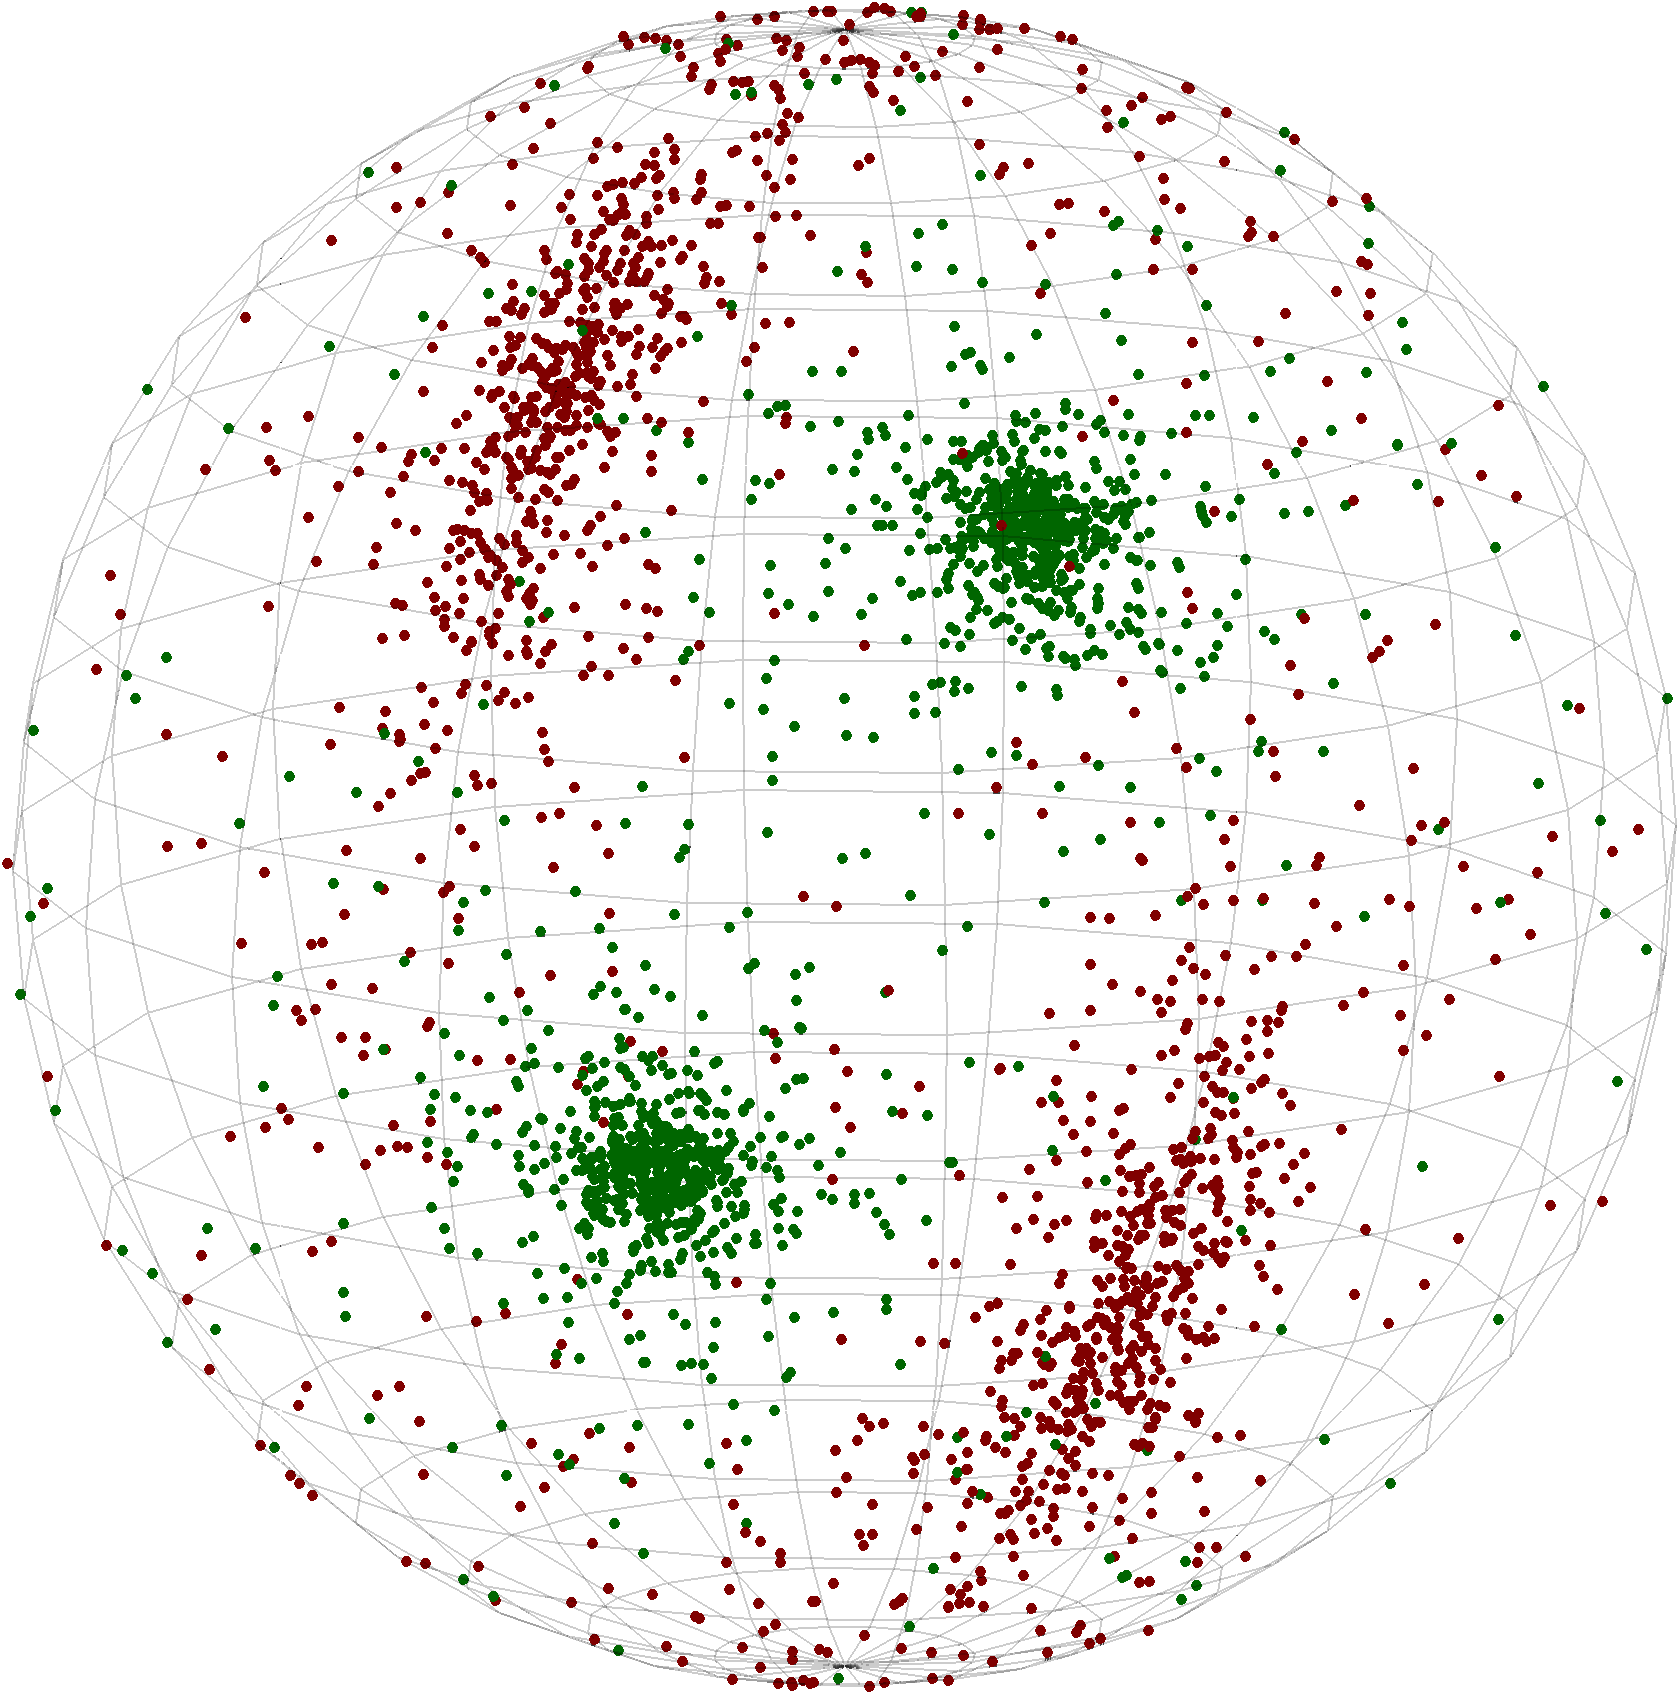
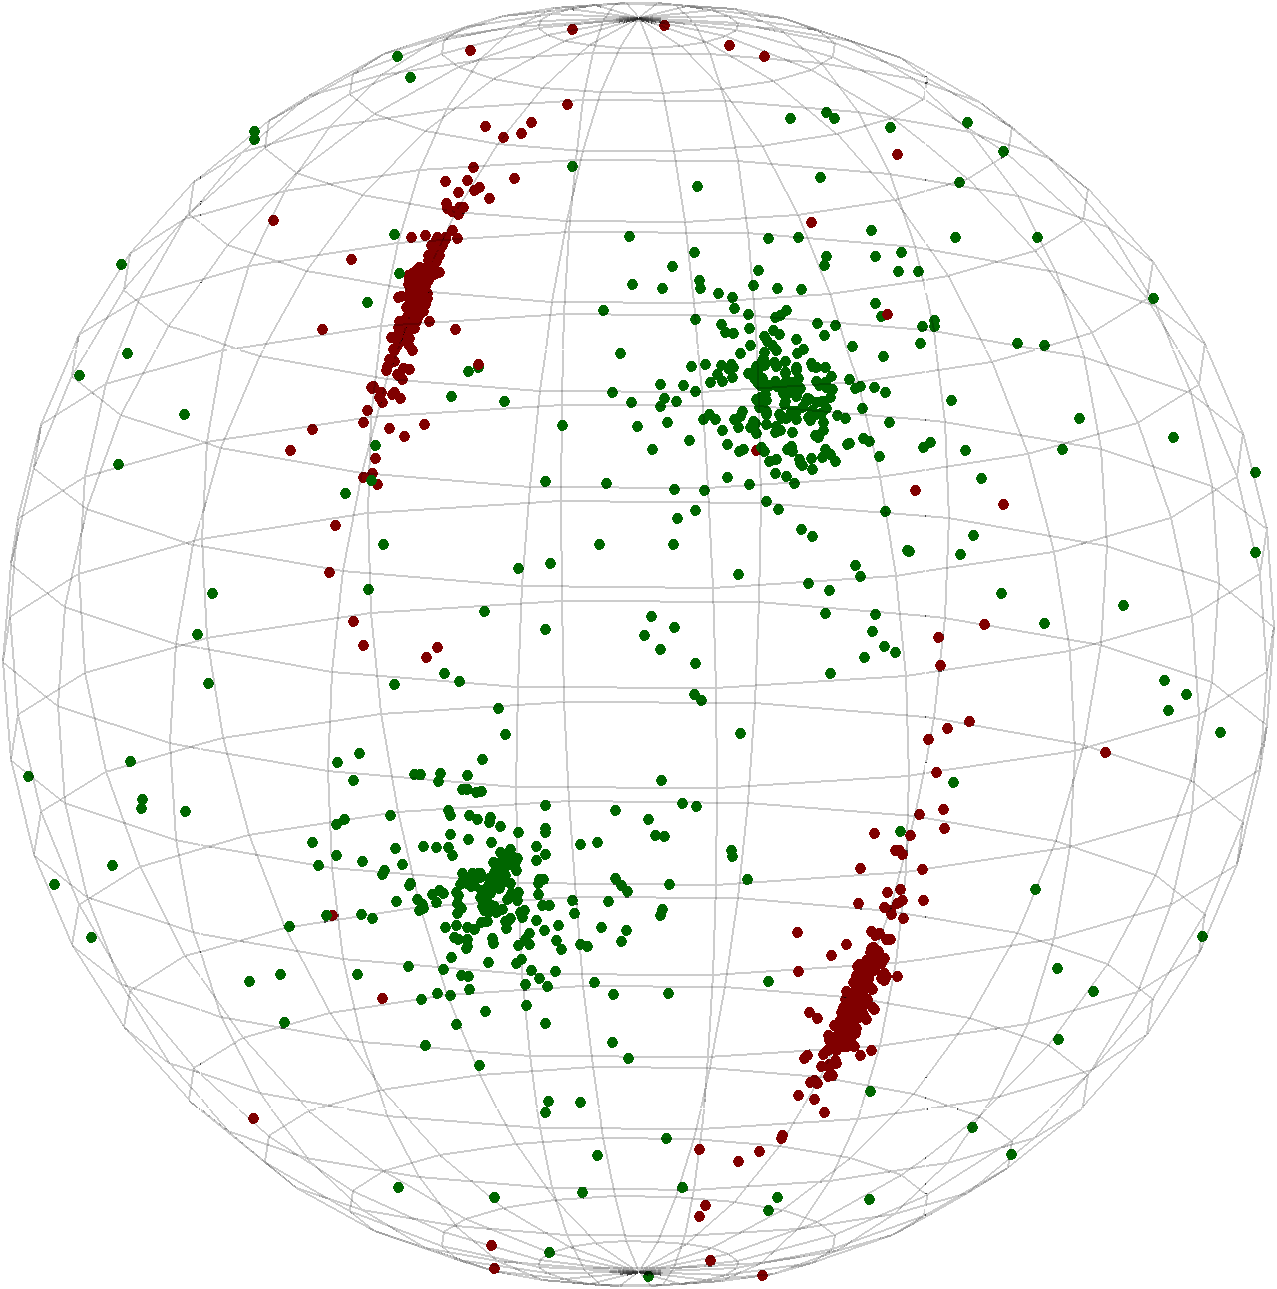
v

diff --git a/src/visualization/sphere_fig.m b/src/visualization/sphere_fig.m
@@ -36,7 +36,7 @@ else
 end
 %% Figure 1
 pointsspherefig(X,cluster_id);
-% exportgraphics(gcf,[ff,'sphere_WMM_data.png'],'Resolution',300)
+exportgraphics(gcf,[ff,'sphere_WMM_data.png'],'Resolution',300)
 
 
 % WMM_results = WMM_EM_BigMem2(X,2,200,1,'++',0)
